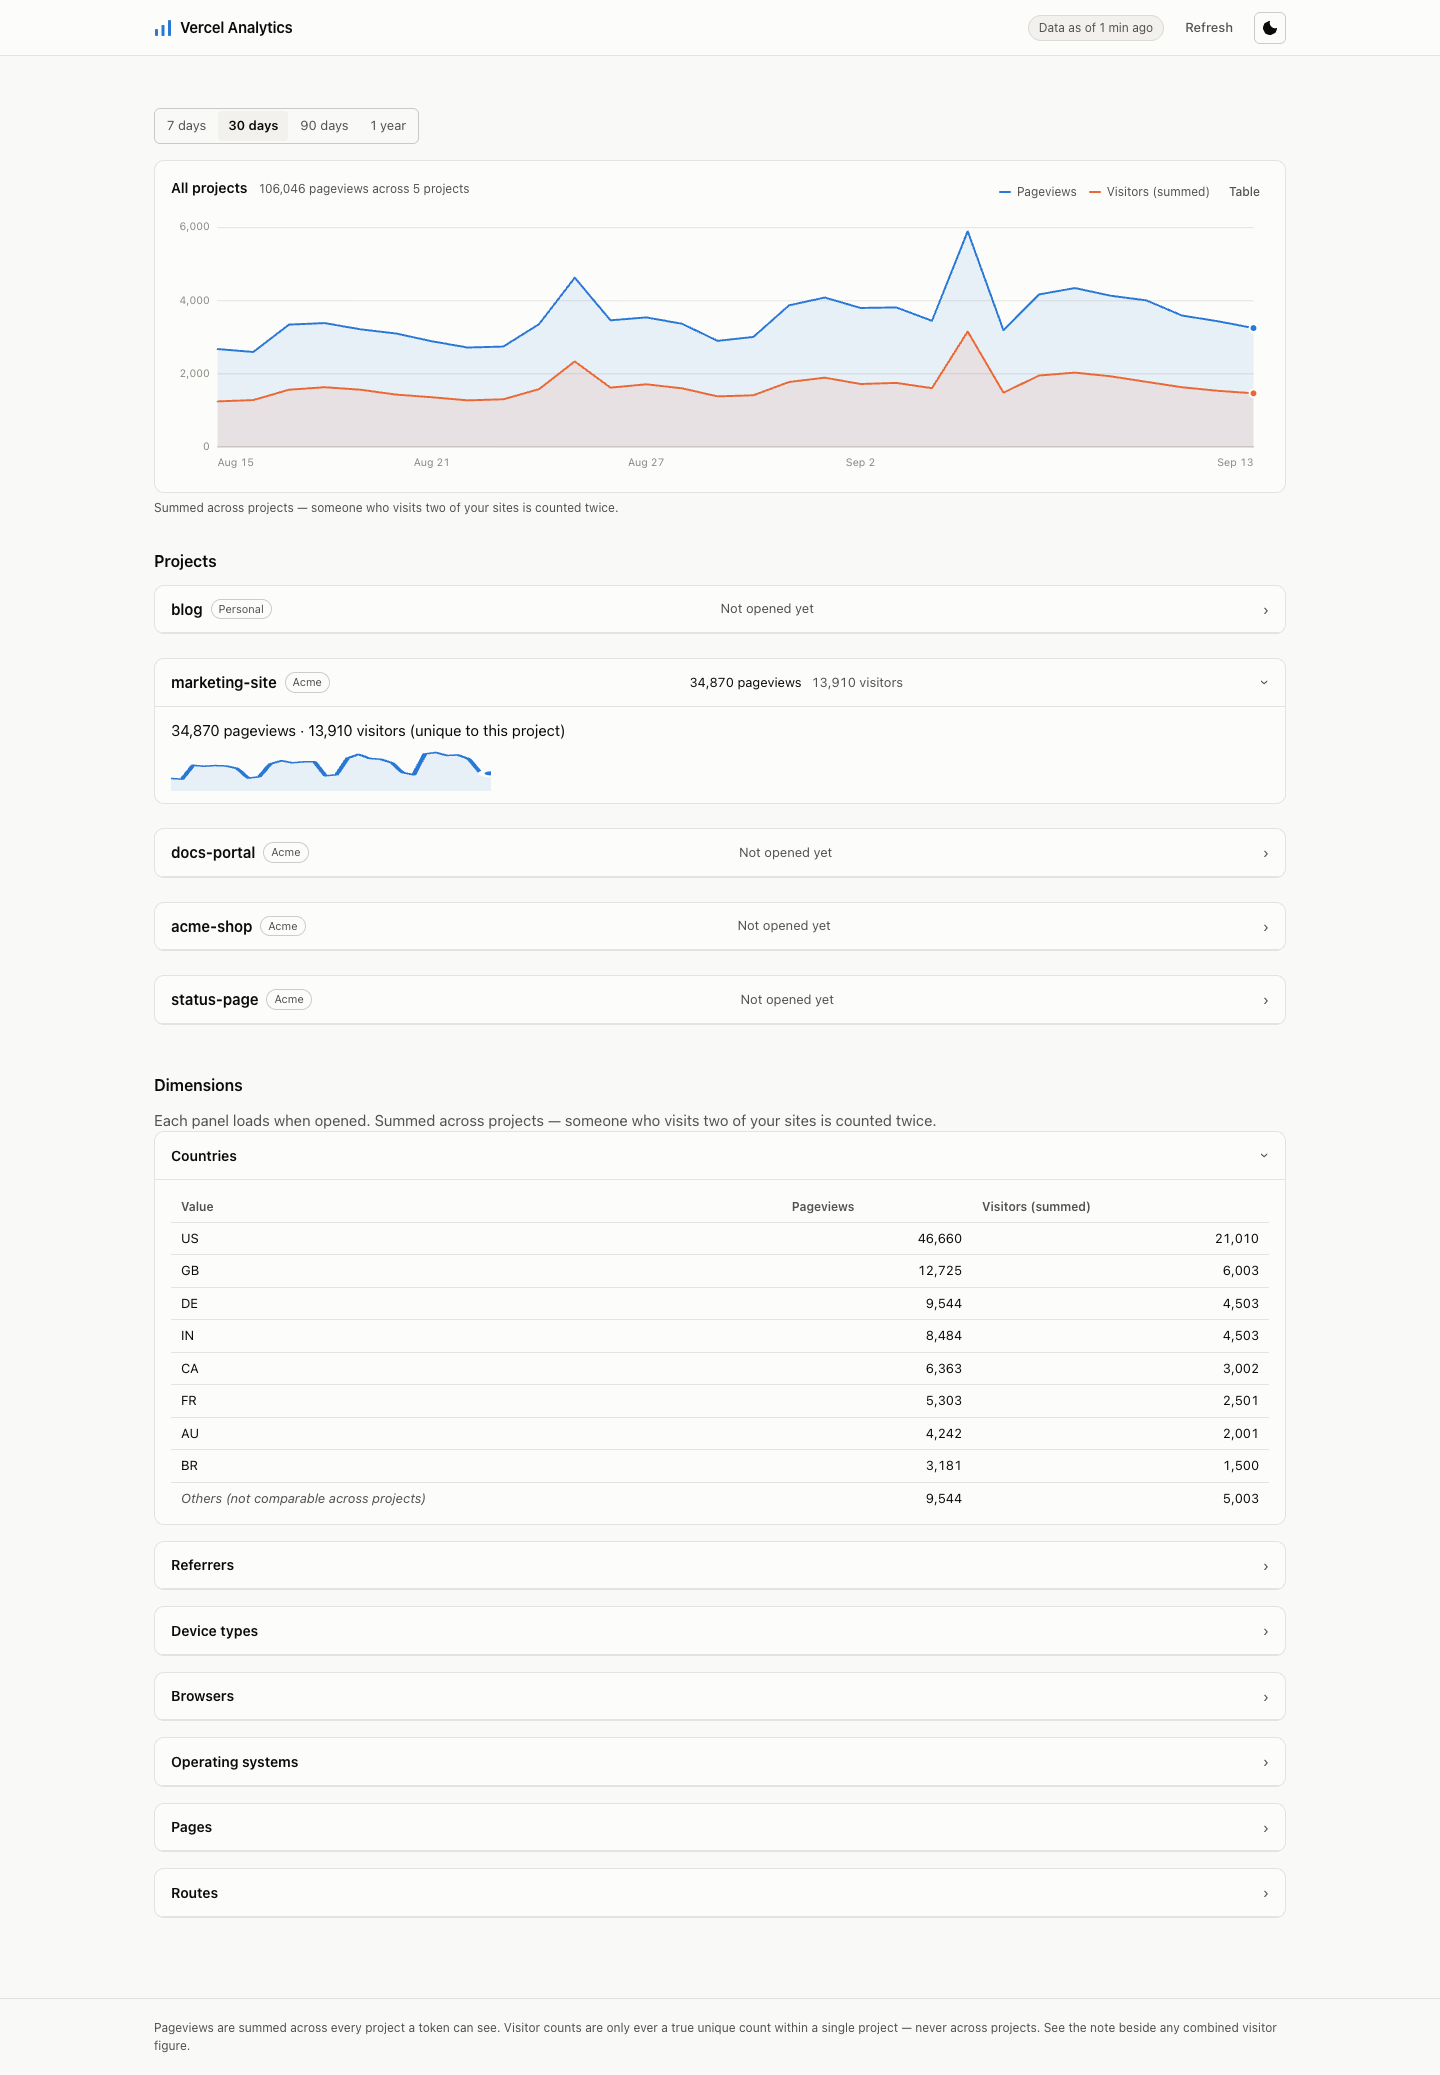
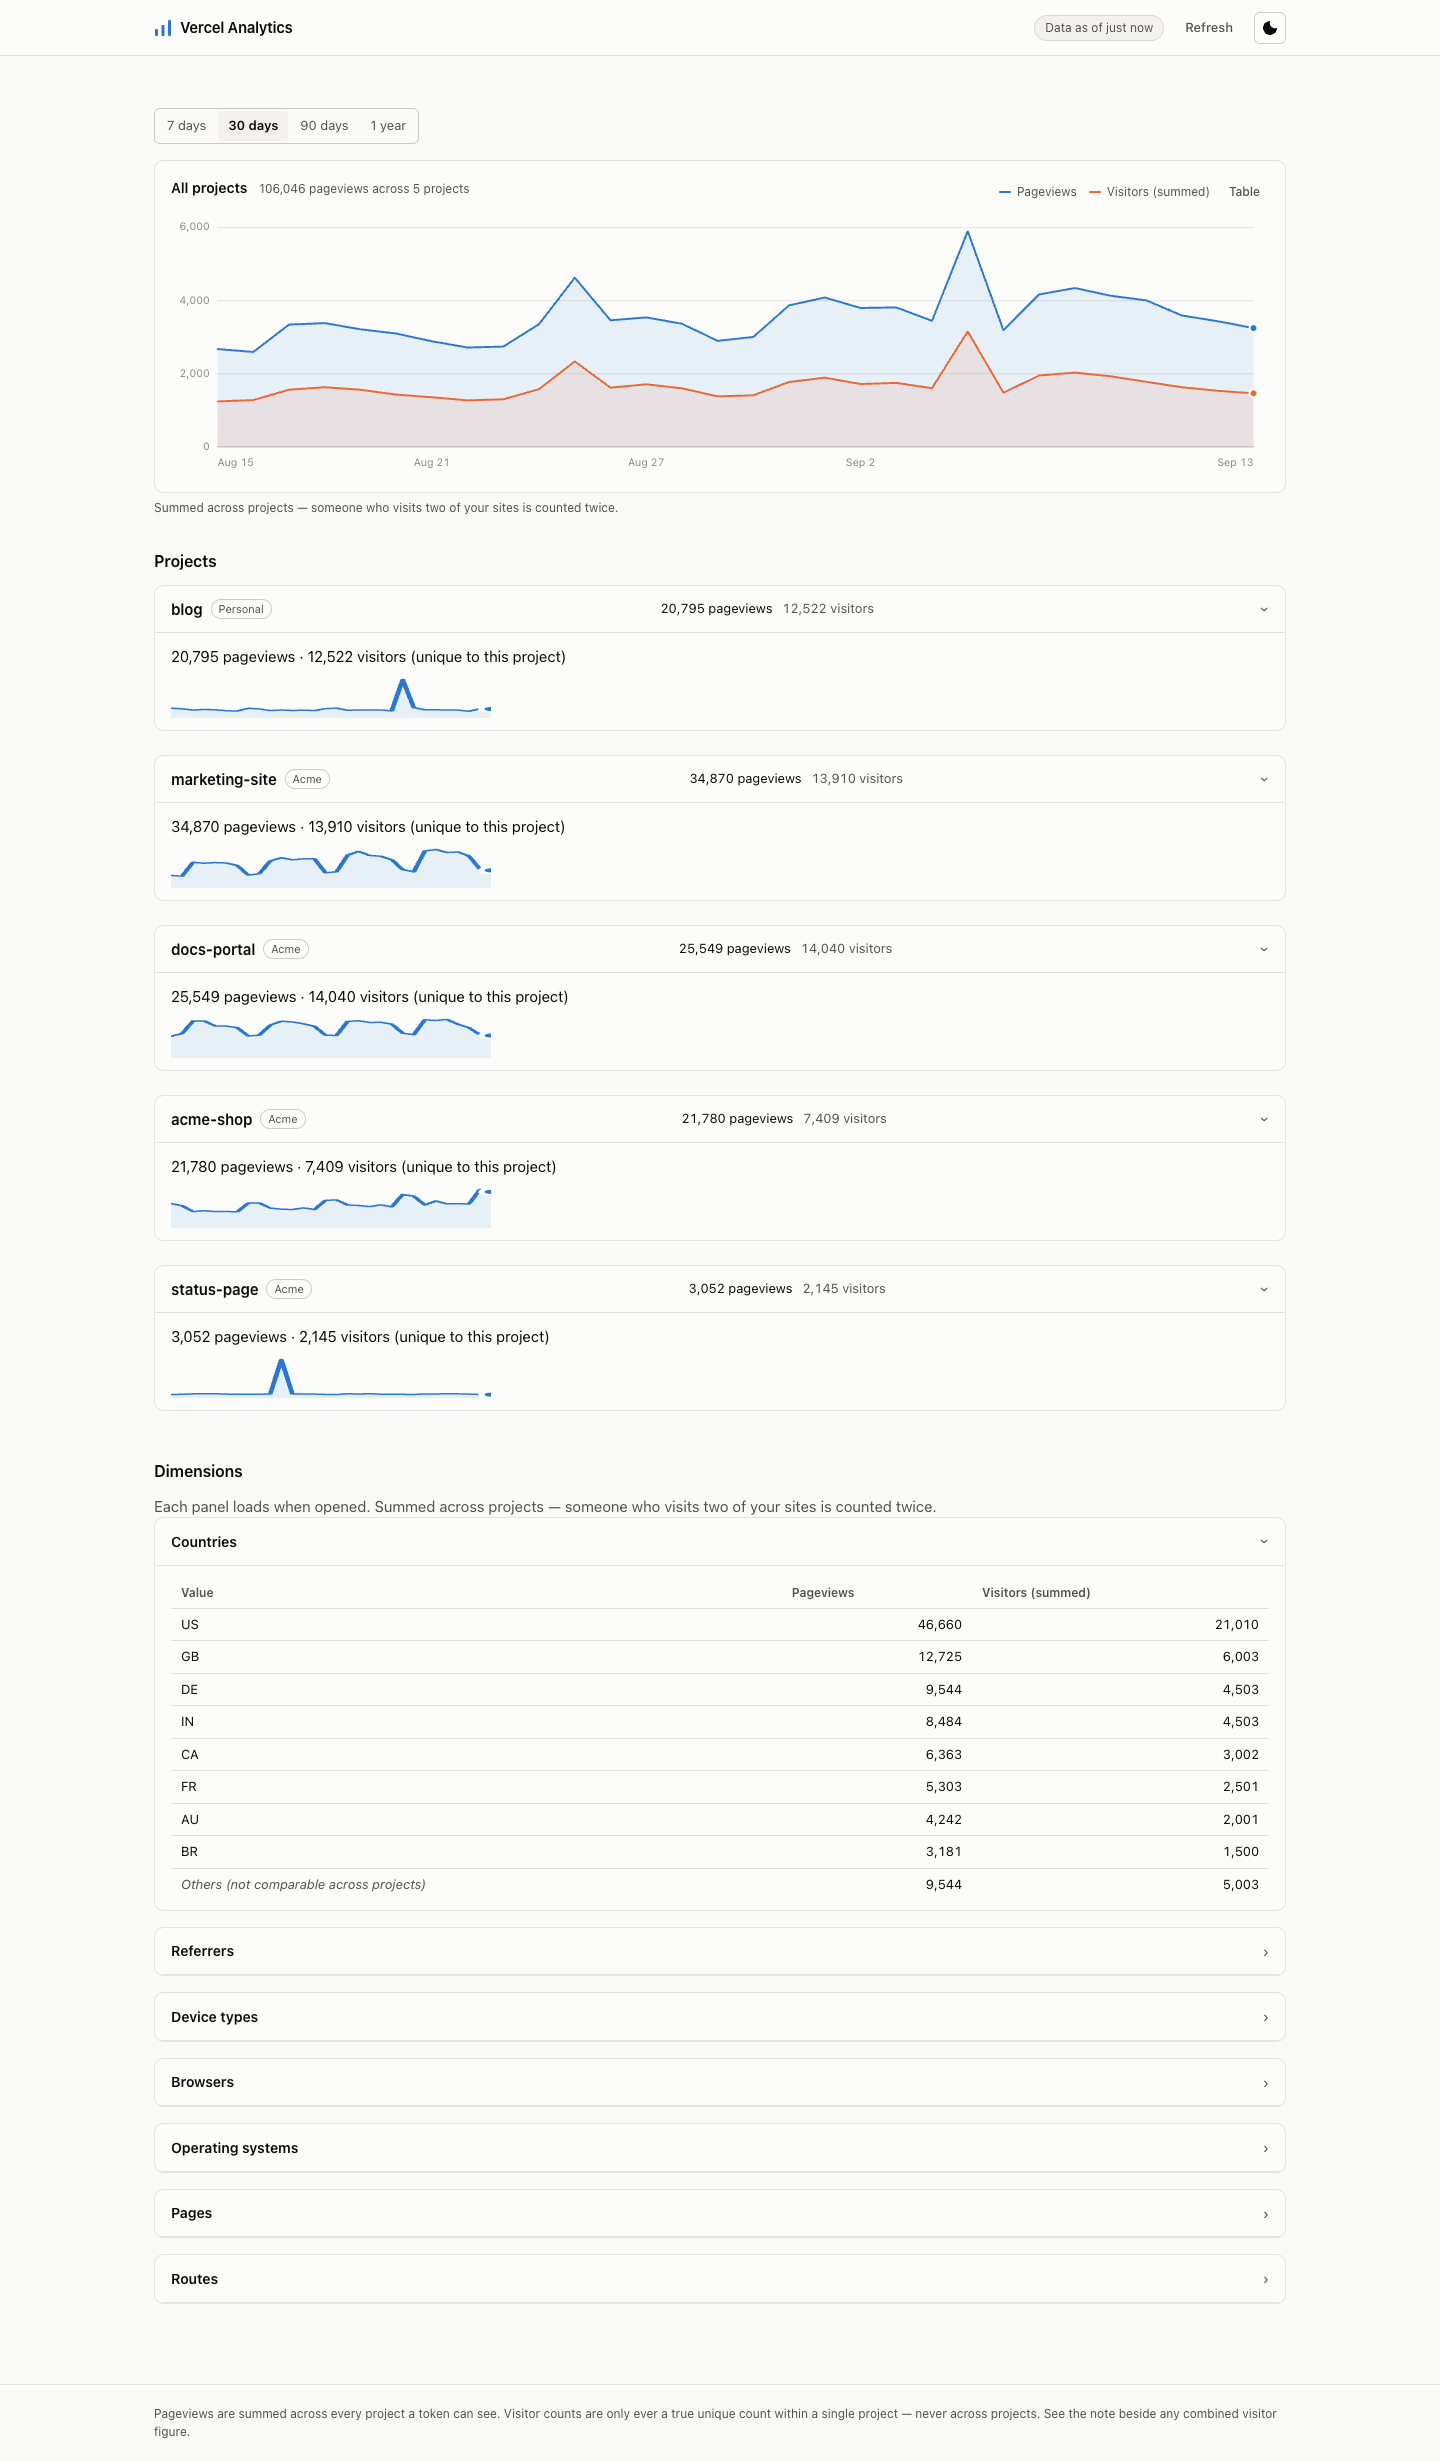
docs: recapture the screenshot with every project row expanded
The prior capture showed four of five project rows collapsed
("Not opened yet"), which read as a broken page rather than the
lazy-loading feature it actually is. Reopened all five rows (and kept
the Countries panel open) before capturing, same stub data — totals
still reconcile exactly.

Claude-Session: https://claude.ai/code/session_01URQjHWV93bqPLGS96KToBh

diff --git a/README.md b/README.md
@@ -14,7 +14,7 @@ REST API live, on every request, and does that adding-up for you.
 There is no database, no polling, no cron job, no build step, and **zero
 npm dependencies**. It is plain Node.js, start to finish.
 
-![The dashboard: a combined pageviews/visitors chart across five projects, one opened project's own sparkline, and a country breakdown table](docs/screenshot.png)
+![The dashboard: a combined pageviews/visitors chart across five projects, each project's own pageviews/visitors and sparkline, and a country breakdown table](docs/screenshot.png)
 
 *(Sample data — a fake token, a fake team, and five fake projects. See
 [How it works](#how-it-works) for what's actually running underneath it.)*
